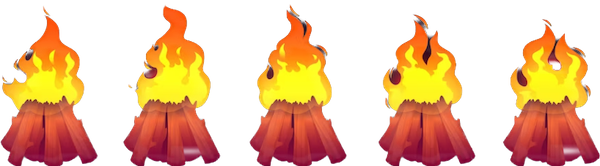
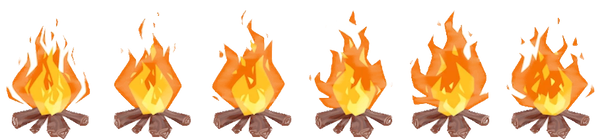
level 2 movement

diff --git a/js/lvl1Burner.js b/js/lvl1Burner.js
@@ -8,7 +8,7 @@ class Burner {
     this.frames = 0;
 
     this.burnerImage = new Image();
-    this.burnerImage.src = "../Images/fire/burningFire.png";
+    this.burnerImage.src = "../Images/fire/fireImage.png";
 
     setInterval(() => this.changeFrame(), 1000);
   }
@@ -16,10 +16,10 @@ class Burner {
   drawBurner() {
     this.ctx.drawImage(
       this.burnerImage,
-      88.3 * this.frames,
+      100 * this.frames,
       0,
-      88.3,
-      78,
+      100,
+      139,
       this.burnerXpos,
       this.burnerYpos,
       this.burnerWidth,
@@ -29,6 +29,6 @@ class Burner {
 
   changeFrame() {
     this.frames++;
-    if (this.frames > 2) this.frames = 0;
+    if (this.frames > 5) this.frames = 0;
   }
 }

diff --git a/js/character.js b/js/character.js
@@ -163,12 +163,15 @@ class Mario {
     this.marioBlueObsCollision();
 
     const [currWood, currWoodIndex] = this.getCurrentWood();
-
+    console.log("this.background", this.background);
+    console.log("wood", currWood);
+    console.log("index", currWoodIndex);
+    // console.log(currWood);
     if (
       this.marioXpos > currWood.woodXpos + currWood.woodWidth ||
       this.marioXpos < currWood.woodXpos - this.marioWidth
     ) {
-      console.log(this.marioYpos);
+      console.log("currentWoodIndwx+ 1", this.background[currWoodIndex]);
       this.marioYpos =
         this.background[currWoodIndex + 1].woodYpos - this.marioHeight;
     }

diff --git a/js/index.js b/js/index.js
@@ -116,6 +116,8 @@ class HerGame {
       this.specialObs,
       this.eachWoodObstacle,
       this.fireObstacle,
+      [],
+      [],
       this
     );
 
@@ -401,7 +403,9 @@ const level1HerGame = new Level1HerGame(CANVAS_WIDTH, CANVAS_HEIGHT);
 const herGame = new HerGame(CANVAS_WIDTH, CANVAS_HEIGHT);
 
 if (level1 && !level2) {
+  console.log("level 1 initiated");
   level1HerGame.init();
 } else if (!level1 && level2) {
+  console.log("level2 initiated");
   herGame.init();
 }

diff --git a/js/fire.js b/js/fire.js
@@ -16,10 +16,10 @@ class Fire {
   drawFire() {
     this.ctx.drawImage(
       this.fireImage,
-      120 * this.frames,
+      100 * this.frames,
       0,
-      120,
-      166,
+      100,
+      139,
       this.fireXpos,
       this.fireYpos,
       this.fireWidth,

diff --git a/js/background.js b/js/background.js
@@ -1,5 +1,5 @@
 class WoodenBlock {
-  constructor(x, y, width, height, side) {
+  constructor(x, y, width, height, side = null) {
     this.ctx = canvas.getContext("2d");
     this.woodXpos = x;
     this.woodYpos = y;

diff --git a/js/woodObstacle.js b/js/woodObstacle.js
@@ -59,7 +59,6 @@ class ObstacleInEachWood {
         ) {
           this.dx = -1;
         }
-        console.log(this.dx);
         this.blueObsXpos += this.dx;
       }
     }
